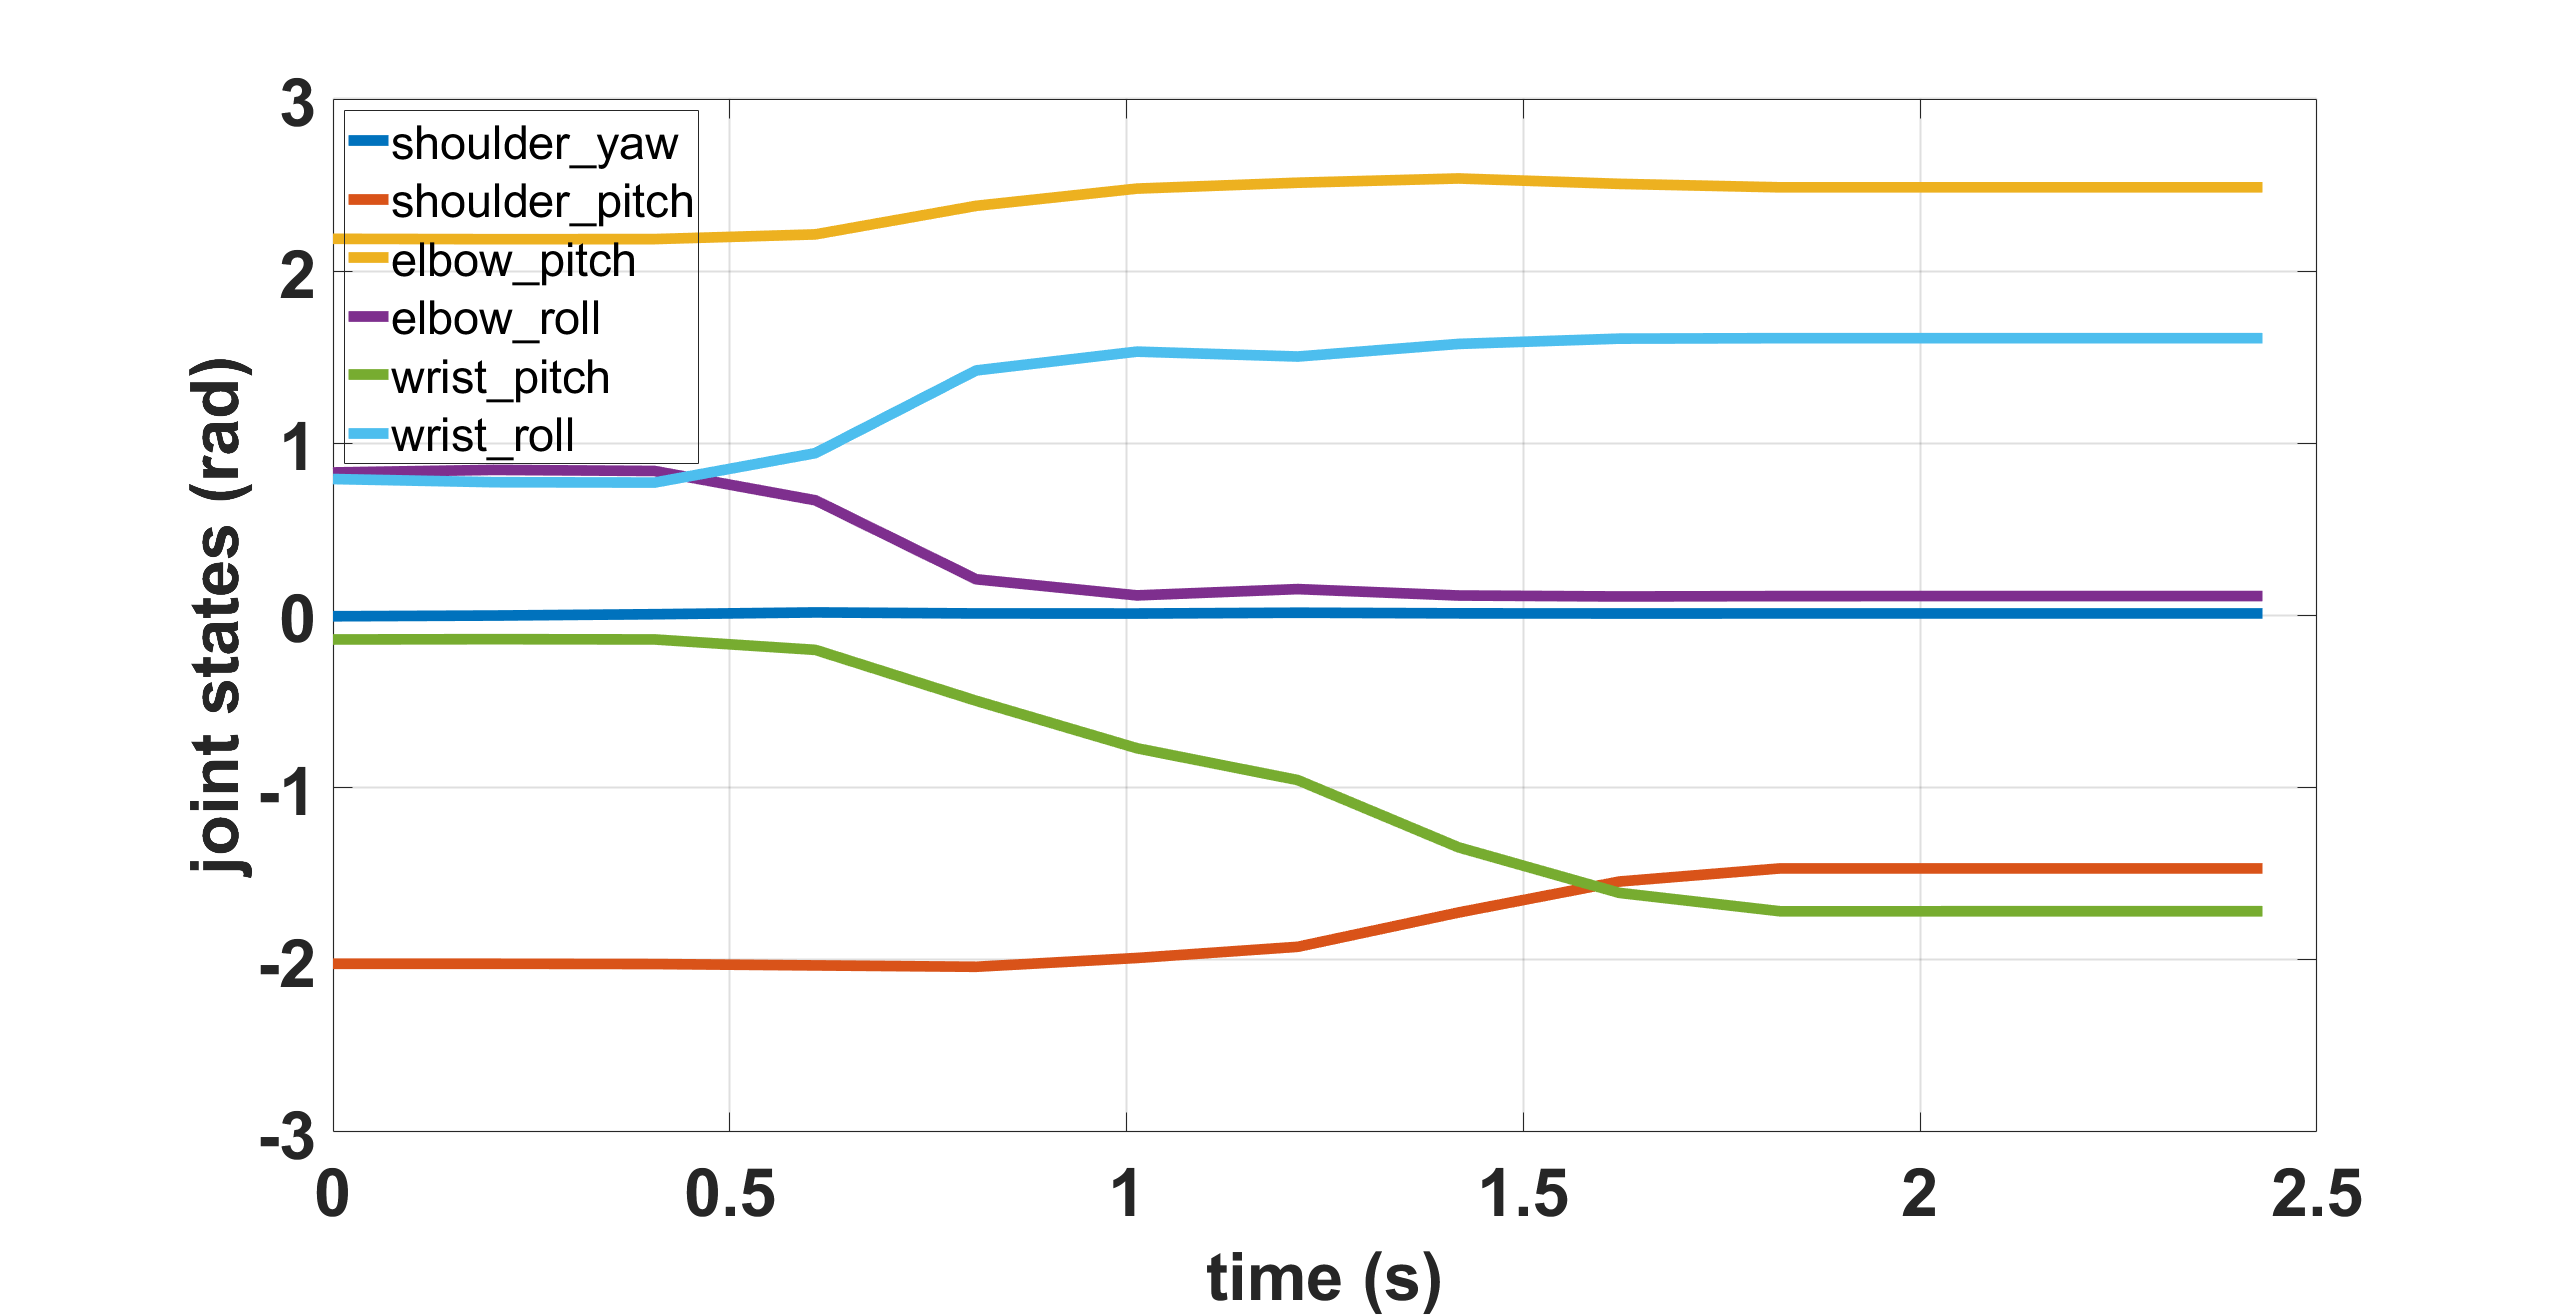
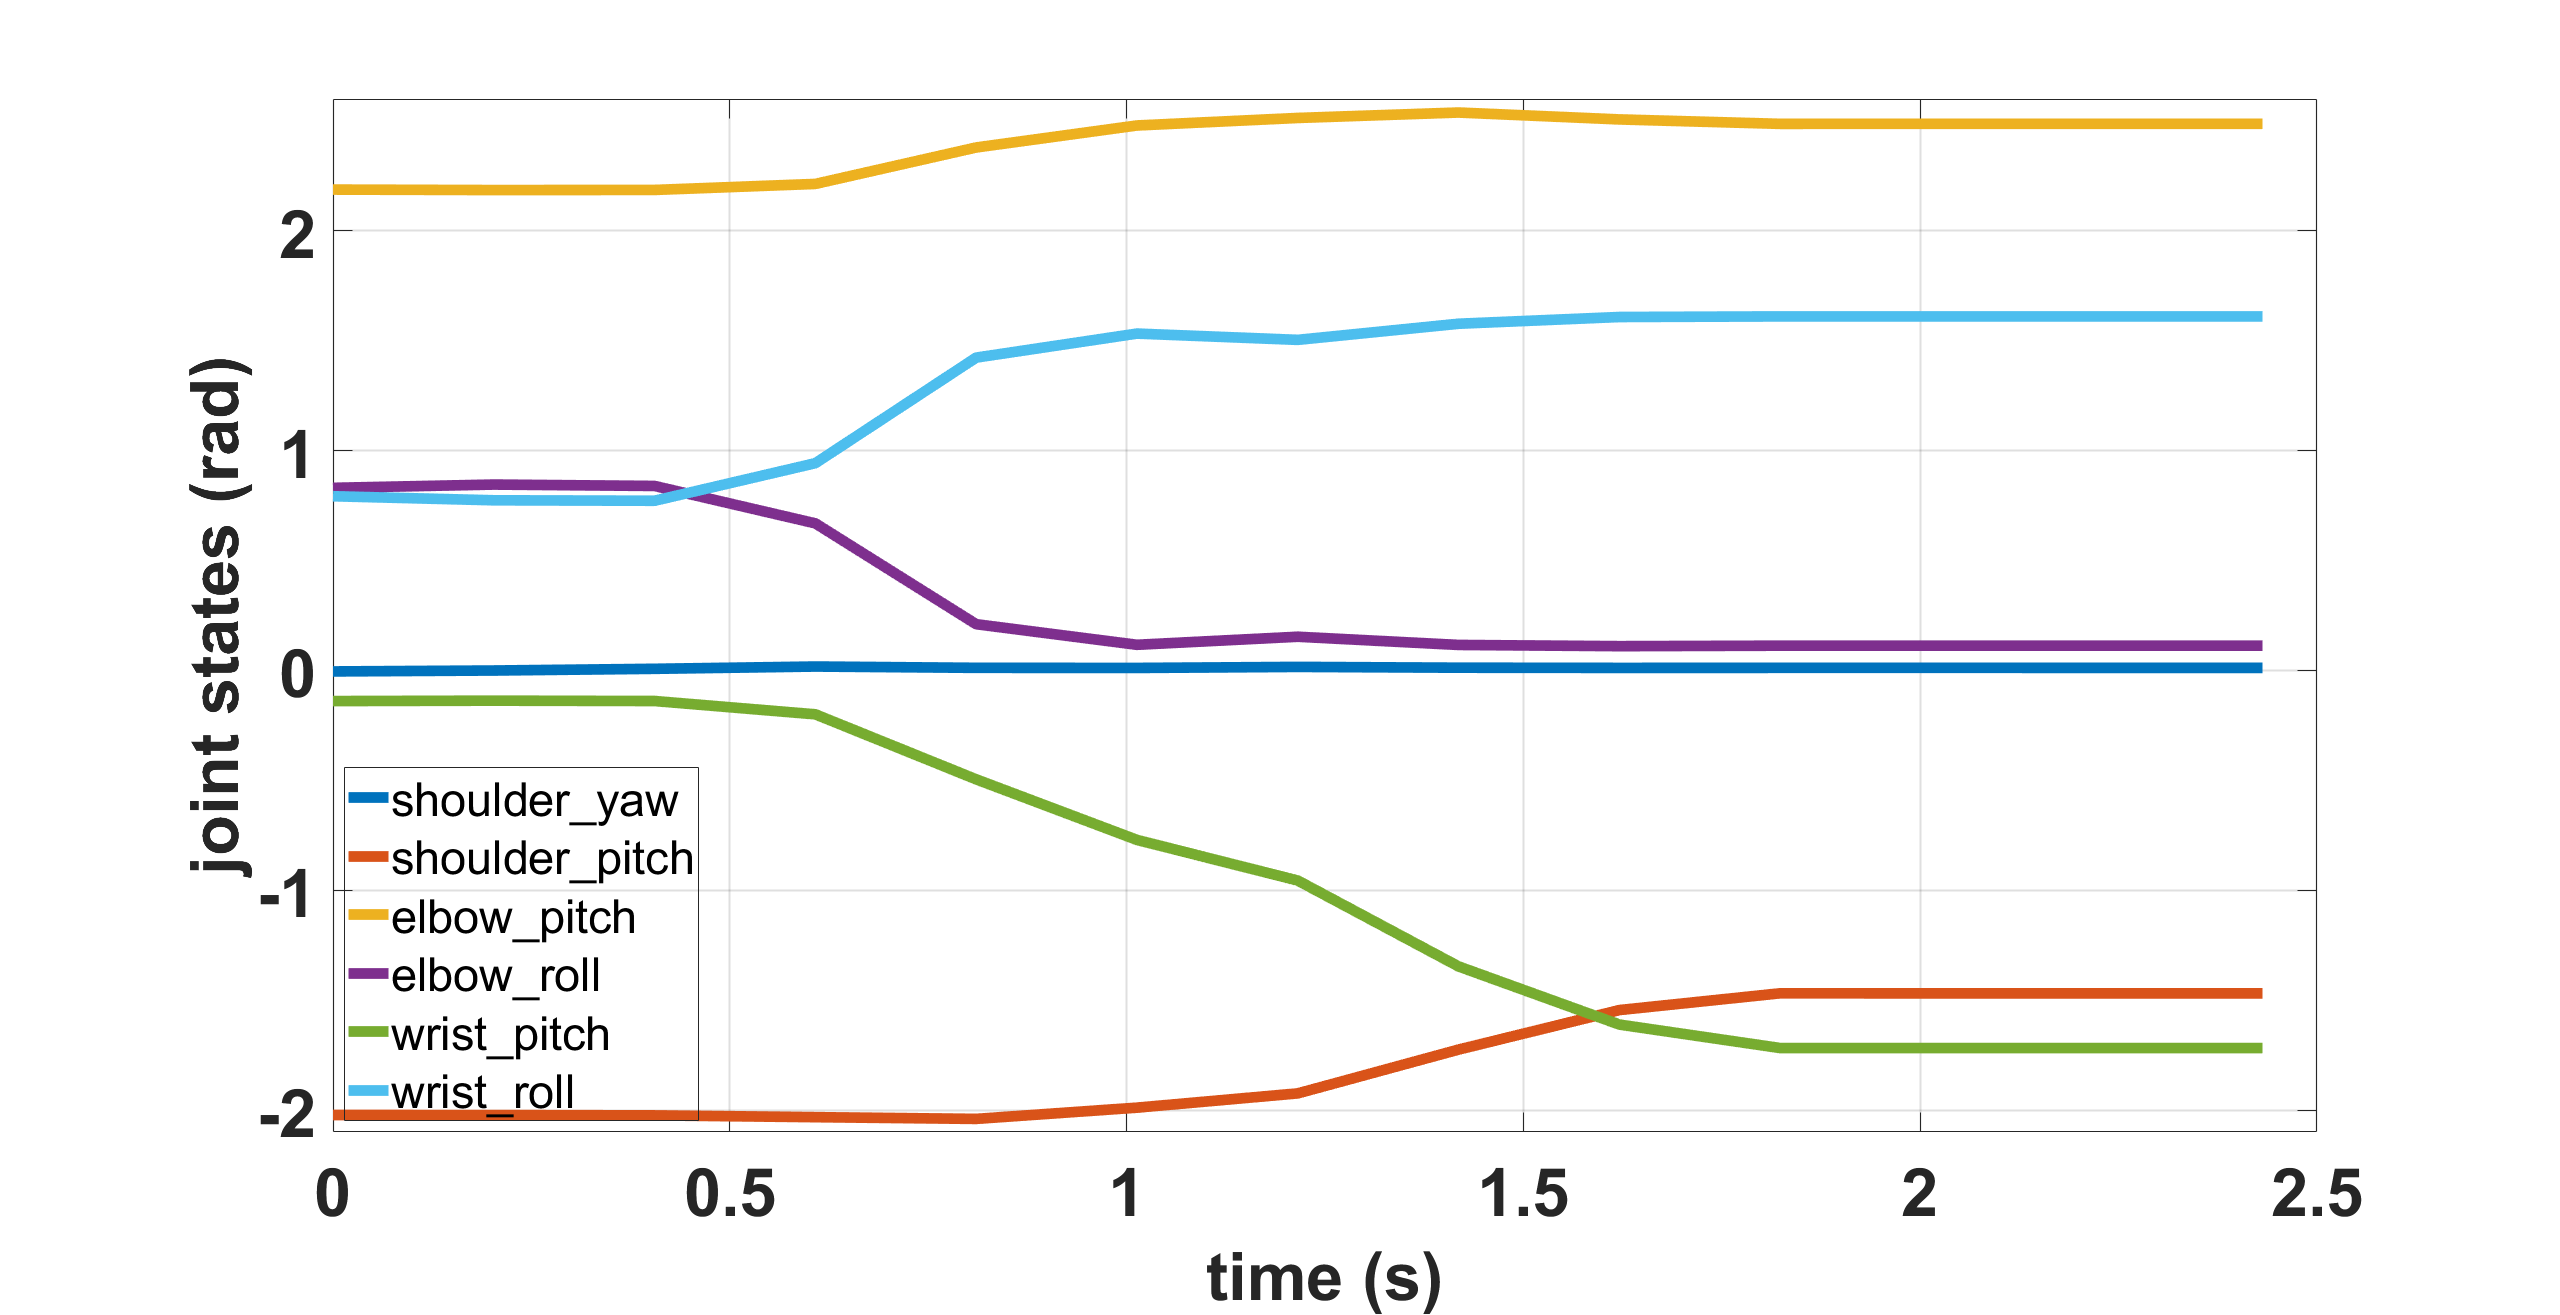
update joint states chart bounds and legend location

diff --git a/real_robot_data_plots_and_demos/orientation_experiments/valve_turn_case_2/ee_position_and_joint_states_plotter.m b/real_robot_data_plots_and_demos/orientation_experiments/valve_turn_case_2/ee_position_and_joint_states_plotter.m
@@ -203,6 +203,8 @@ label_fontsize = 50;
 legend_fontsize = 35;
 tick_fontsize = 50;
 grid_lw = 1.5;
+xlim([0 2.5])
+ylim([-2.1 2.6])
 
 % Subplot labels
 xlabel(ax_joint_states, 'time (s)');
@@ -219,7 +221,7 @@ ax_joint_states.XLabel.FontSize = label_fontsize;
 ax_joint_states.YLabel.FontSize = label_fontsize;
 ax_joint_states.ZLabel.FontSize = label_fontsize;
 ax_joint_states.Legend.FontSize = legend_fontsize;
-ax_joint_states.Legend.Location = "northwest";
+ax_joint_states.Legend.Location = "southwest";
 ax_joint_states.Title.FontSize = title_fontsize;
 ax_joint_states.GridLineWidth = grid_lw;
 
